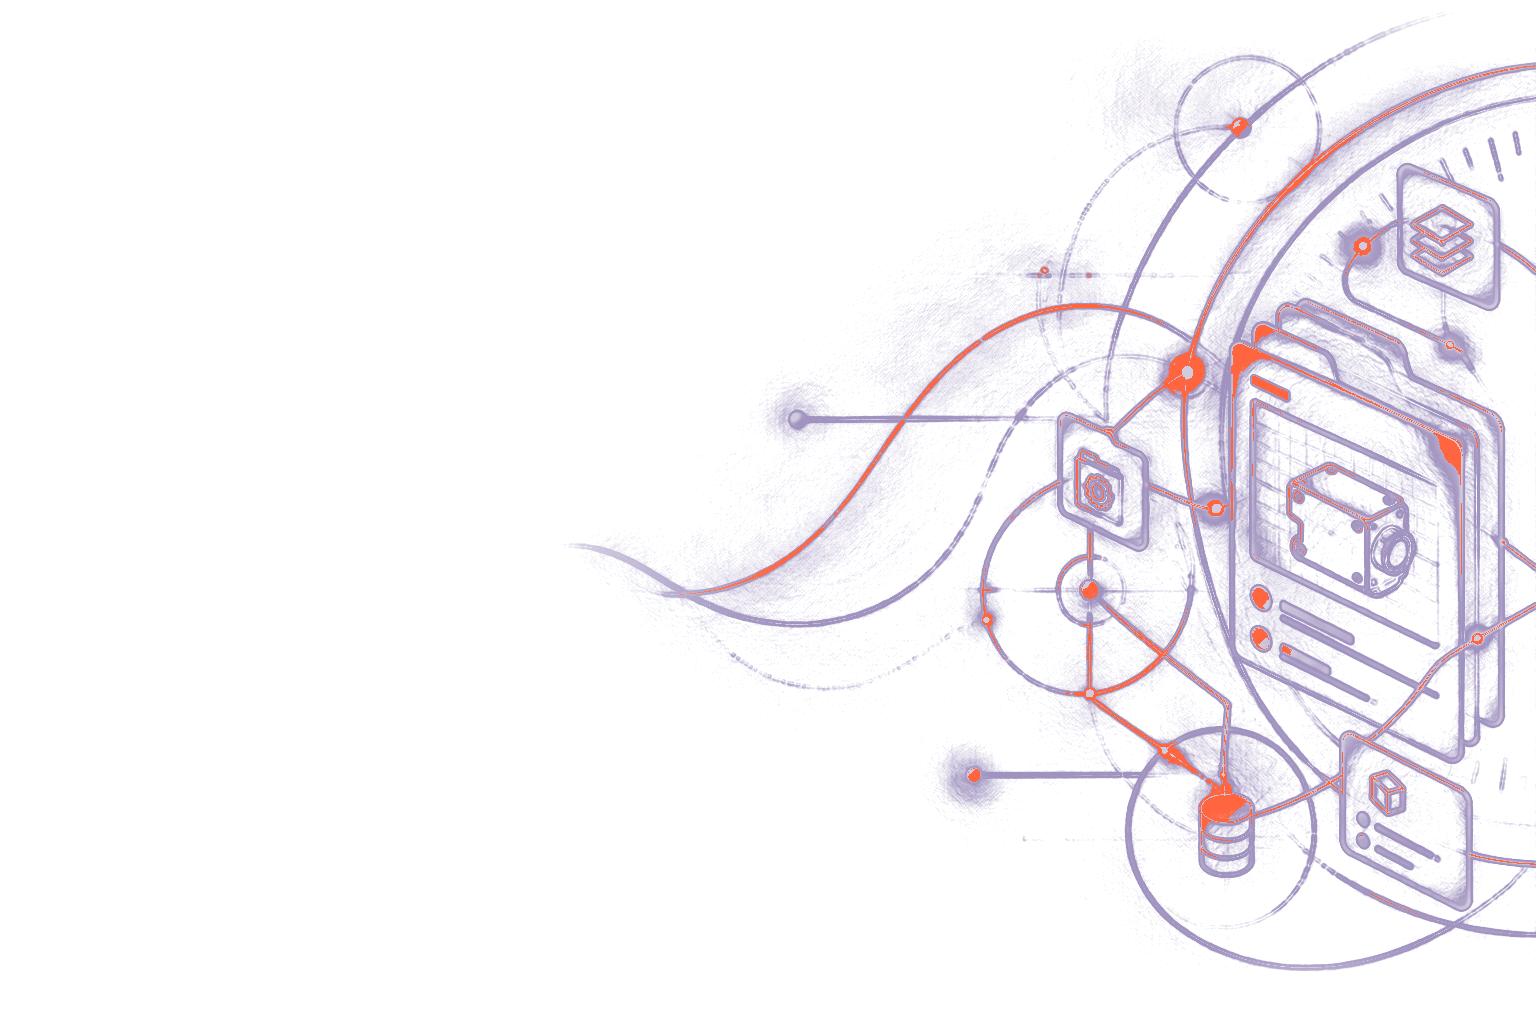
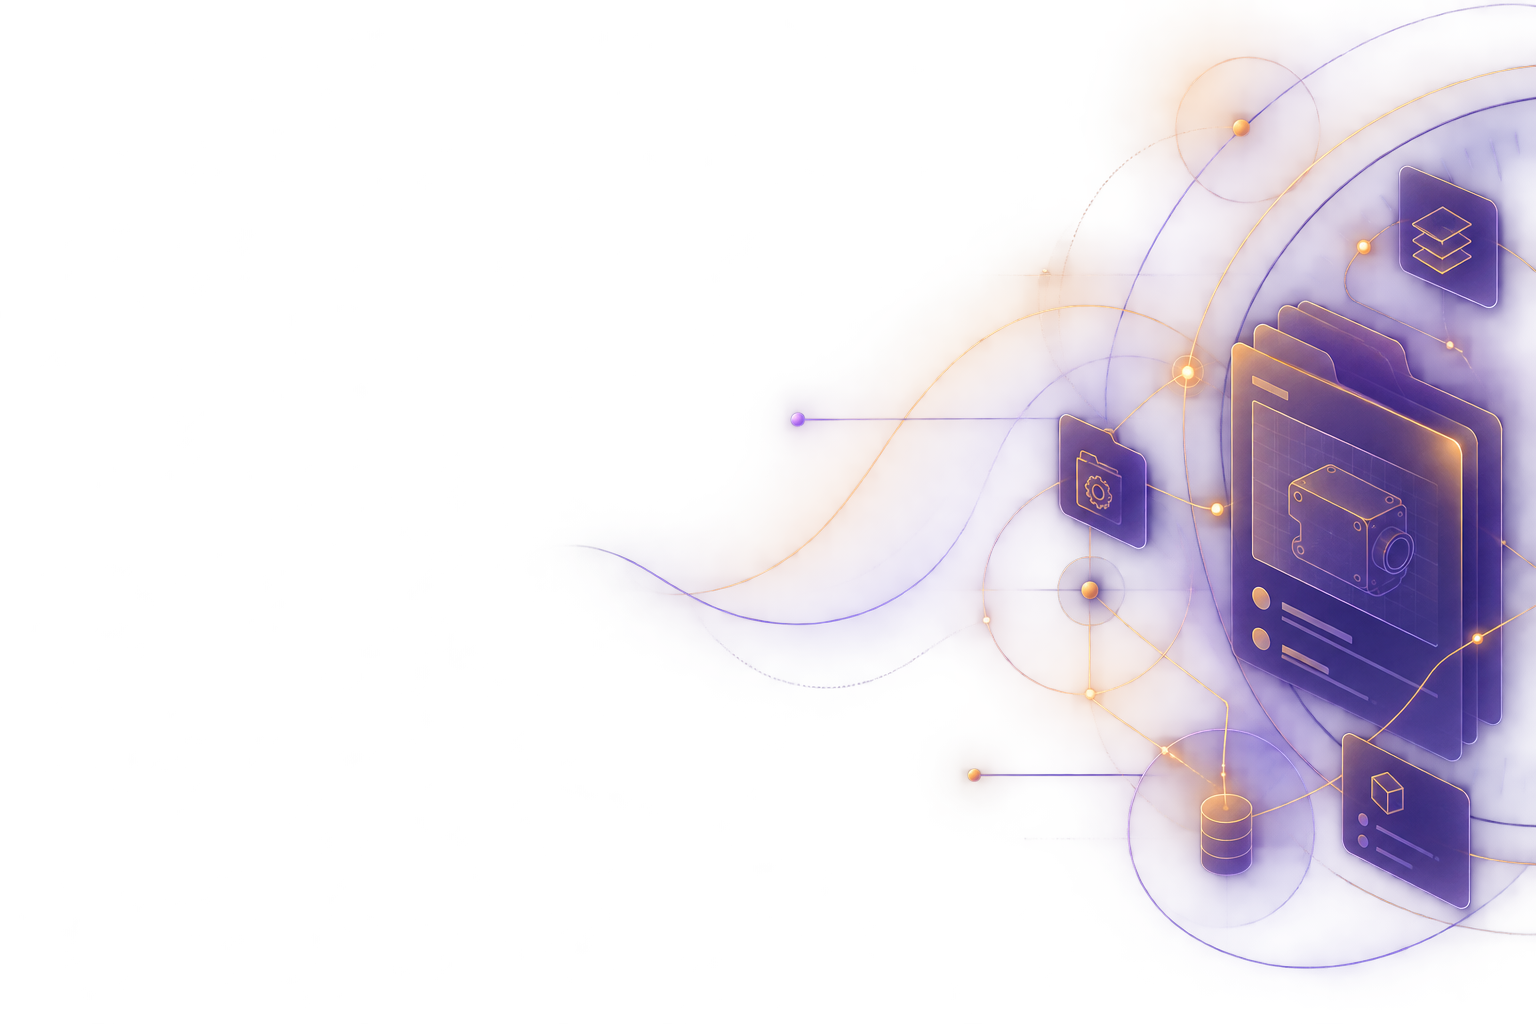
Use supplied transparent atmosphere art

diff --git a/homepage.css b/homepage.css
@@ -1,14 +1,23 @@
 /* Story-led homepage */
 
 .directory-body {
+  position: relative;
+  isolation: isolate;
   background:
     radial-gradient(
-      circle at 78% 28%,
-      hsl(263deg 92% 48% / 6%) 0%,
-      hsl(257deg 74% 25% / 3%) 22%,
-      transparent 42%
+      ellipse 78% 68% at 88% 7%,
+      rgb(112 43 188 / 42%) 0%,
+      rgb(72 32 126 / 27%) 34%,
+      rgb(27 20 63 / 12%) 53%,
+      transparent 72%
     ),
-    #080b12;
+    linear-gradient(
+      180deg,
+      #1b1832 0%,
+      #121326 42%,
+      #0a0e18 78%,
+      #080b12 100%
+    );
 }
 
 .directory-body::before {
@@ -19,9 +28,9 @@
   position: relative;
   grid-template-columns: 1fr auto;
   border-bottom-color: rgb(128 112 171 / 0.24);
-  background: rgb(8 11 18 / 0.5);
-  -webkit-backdrop-filter: blur(16px);
-  backdrop-filter: blur(16px);
+  background: rgb(8 11 18 / 0.48);
+  -webkit-backdrop-filter: blur(12px);
+  backdrop-filter: blur(12px);
 }
 
 .directory-body .directory-masthead .wordmark {
@@ -38,6 +47,8 @@
 }
 
 .directory-body .directory-main {
+  position: relative;
+  z-index: 1;
   grid-template-columns: minmax(27rem, 0.92fr) minmax(31rem, 1.08fr);
   gap: clamp(4rem, 6vw, 6.5rem);
   width: min(100% - 5rem, 96rem);
@@ -48,9 +59,11 @@
   align-self: center;
   margin: 0.5rem 0.625rem;
   padding: 2.5rem;
-  border: 1px solid rgb(116 99 151 / 0.28);
-  background: rgb(17 16 30 / 0.92);
-  box-shadow: 0 1.25rem 2.75rem rgb(0 0 0 / 0.32);
+  border: 1px solid rgb(124 105 161 / 0.3);
+  background: rgb(19 17 35 / 0.86);
+  box-shadow:
+    inset 0 1px 0 rgb(255 255 255 / 0.02),
+    0 1.125rem 3.75rem rgb(0 0 0 / 0.14);
 }
 
 .directory-body .directory-heading {
@@ -111,7 +124,7 @@
 .directory-body .directory-row.is-active {
   padding: 1.15rem 0.5rem 1.15rem 1.15rem;
   border-left-color: #ff5a36;
-  background: rgb(79 33 39 / 0.22);
+  background: rgb(74 31 52 / 0.31);
   transition-duration: 120ms;
 }
 
@@ -229,12 +242,6 @@
 
 .directory-body .directory-intro {
   position: relative;
-  isolation: isolate;
-}
-
-.directory-body .directory-intro > :not(.story-atmosphere) {
-  position: relative;
-  z-index: 1;
 }
 
 .story-atmosphere {
@@ -248,36 +255,36 @@
 
 .story-atmosphere__image {
   position: absolute;
-  inset: -4rem -3rem -4rem 12%;
-  width: auto;
-  height: calc(100% + 8rem);
-  object-fit: contain;
-  object-position: right center;
+  top: 46%;
+  right: -7vw;
+  width: min(61vw, 68.75rem);
+  height: auto;
   opacity: 0;
-  filter: saturate(0.8);
-  transform: translateX(0.75rem);
+  filter: none;
+  mix-blend-mode: normal;
+  transform: translateY(-50%) translateX(1.125rem) scale(1.015);
   -webkit-mask-image: linear-gradient(
     90deg,
     transparent 0%,
-    transparent 22%,
-    rgb(0 0 0 / 0.3) 45%,
-    #000 72%,
-    #000 100%
+    rgb(0 0 0 / 0.12) 26%,
+    rgb(0 0 0 / 0.58) 48%,
+    #000 70%
   );
   mask-image: linear-gradient(
     90deg,
     transparent 0%,
-    transparent 22%,
-    rgb(0 0 0 / 0.3) 45%,
-    #000 72%,
-    #000 100%
+    rgb(0 0 0 / 0.12) 26%,
+    rgb(0 0 0 / 0.58) 48%,
+    #000 70%
   );
-  transition: opacity 500ms ease, transform 700ms ease;
+  transition:
+    opacity 500ms ease,
+    transform 750ms cubic-bezier(0.2, 0.7, 0.2, 1);
 }
 
 .story-atmosphere__image.is-displayed {
-  opacity: 0.12;
-  transform: translateX(0);
+  opacity: 0.32;
+  transform: translateY(-50%) translateX(0) scale(1);
 }
 
 .story-atmosphere.is-settling .story-atmosphere__image {
@@ -292,9 +299,26 @@
 }
 
 .directory-body .directory-intro-copy {
+  position: relative;
+  z-index: 2;
+  isolation: isolate;
   max-width: 37rem;
   margin-top: 1.8rem;
   padding-top: 1.55rem;
+}
+
+.directory-body .directory-intro-copy::before {
+  position: absolute;
+  z-index: -1;
+  inset: -1rem -2rem -1.25rem -1.5rem;
+  background: radial-gradient(
+    ellipse at 35% 45%,
+    rgb(8 11 18 / 0.58) 0%,
+    rgb(8 11 18 / 0.25) 54%,
+    transparent 80%
+  );
+  content: "";
+  pointer-events: none;
 }
 
 .directory-body .directory-intro-copy p,
@@ -309,6 +333,8 @@
 }
 
 .directory-body .directory-footer {
+  position: relative;
+  z-index: 1;
   width: min(100% - 5rem, 96rem);
   padding-block: 1rem 1.25rem;
 }
@@ -380,6 +406,10 @@
   }
 
   .story-atmosphere {
+    display: none;
+  }
+
+  .directory-body .directory-intro-copy::before {
     display: none;
   }
 }

diff --git a/index.html b/index.html
@@ -33,6 +33,42 @@
   <body class="directory-body">
     <a class="skip-link" href="#content">Skip to the directory</a>
 
+    <div class="story-atmosphere" aria-hidden="true">
+      <img
+        class="story-atmosphere__image is-displayed"
+        data-story="gauge-story"
+        src="/atmospheres/gauge-story.png"
+        alt=""
+        width="1536"
+        height="1024"
+        fetchpriority="high"
+      />
+      <img
+        class="story-atmosphere__image"
+        data-story="interactive"
+        src="/atmospheres/interactive-gauges.png"
+        alt=""
+        width="1536"
+        height="1024"
+      />
+      <img
+        class="story-atmosphere__image"
+        data-story="buildbooks"
+        src="/atmospheres/buildbooks.png"
+        alt=""
+        width="1536"
+        height="1024"
+      />
+      <img
+        class="story-atmosphere__image"
+        data-story="artifacts"
+        src="/atmospheres/artifacts.png"
+        alt=""
+        width="1536"
+        height="1024"
+      />
+    </div>
+
     <header class="masthead directory-masthead">
       <a class="wordmark" href="/" aria-label="Bob's App, home">
         <img src="/bobs-app-logo.svg" alt="" width="572" height="100" />
@@ -45,41 +81,6 @@
 
     <main class="directory-main" id="content">
       <section class="directory-intro" id="about" aria-labelledby="directory-title">
-        <div class="story-atmosphere" aria-hidden="true">
-          <img
-            class="story-atmosphere__image is-displayed"
-            data-story="gauge-story"
-            src="/atmospheres/gauge-story.png"
-            alt=""
-            width="1536"
-            height="1024"
-            fetchpriority="high"
-          />
-          <img
-            class="story-atmosphere__image"
-            data-story="interactive"
-            src="/atmospheres/interactive-gauges.png"
-            alt=""
-            width="1536"
-            height="1024"
-          />
-          <img
-            class="story-atmosphere__image"
-            data-story="buildbooks"
-            src="/atmospheres/buildbooks.png"
-            alt=""
-            width="1536"
-            height="1024"
-          />
-          <img
-            class="story-atmosphere__image"
-            data-story="artifacts"
-            src="/atmospheres/artifacts.png"
-            alt=""
-            width="1536"
-            height="1024"
-          />
-        </div>
         <p class="section-label">What about Bob?</p>
         <h1 id="directory-title">Stories that work.</h1>
         <div class="directory-intro-copy">
